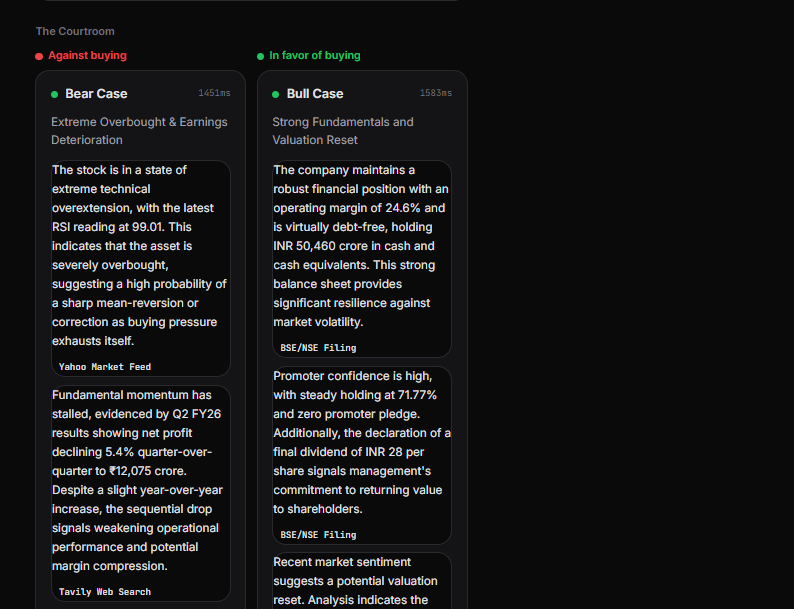
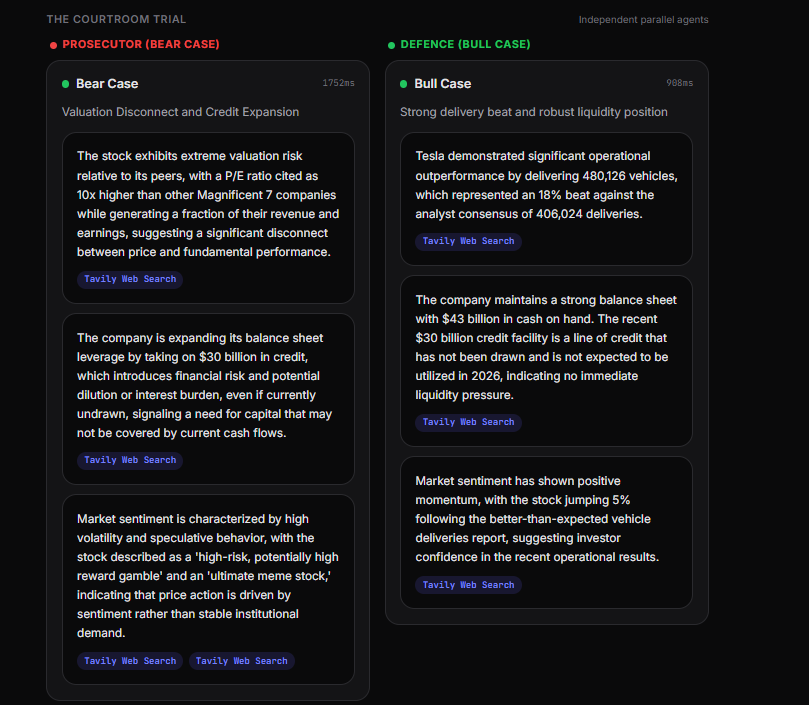
docs: add report export toolbar, CSV download verification, and live community metrics to README

diff --git a/README.md b/README.md
@@ -82,6 +82,18 @@ Displays a 0 to 100 Regret Risk Score gauge, individual agent confidence levels,
 
 ![Regret Risk Gauge and Confidence Analysis](docs/screenshots/verdict-risk-meter.png)
 
+### Report Export Toolbar
+One-click export toolbar to download official trial reports as formatted Print/PDF documents, Excel CSV spreadsheets, or Markdown documentation.
+
+![Court Analysis Report with Export Toolbar and Trade Execution Plan](docs/screenshots/verdict-trade-plan-export.png)
+
+![CSV Report Download Confirmation](docs/screenshots/export-download-completed.png)
+
+### Community Sentiment & Metrics
+Aggregates real-time investor sentiment from Reddit, Stocktwits, and financial forums via Tavily, paired with a sub-5s runtime execution metrics strip.
+
+![Live Community Discussions and Execution Metrics](docs/screenshots/community-discussions-metrics.png)
+
 ---
 
 ## Pipeline
